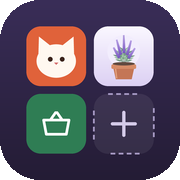
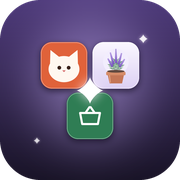
Hub 1.3: versões por app, tela Novidades, novo ícone e versões dos apps
- Novo: novidades.html, tela Novidades com um painel por app (arrasta para o lado) e histórico de versões.
- Novo: versoes.js, fonte única das versões e do histórico do menu e da tela Novidades.
- Menu: versão ao lado de cada app e versão do Meus apps no rodapé.
- Novo ícone juntando os três apps, com versão maskable para Android. Ícone antigo de quem já instalou: remover e instalar de novo.
- Patinhas 1.10: Comprar para o pet (lista do pet shop), tratamentos que terminam em 7 dias, atalho do Hoje para o gato. Nota: o commit d4d6337 chamou esse cartão de 1.9; a versão certa é 1.10 (1.9 é o alerta de peso).
- Maison 1.3: tocar em um item do Hoje abre a tela certa (estoque, vendas, compras).
- Listas 1.1: Comprados antes, desfazer, atalhos do Hoje, pet shop recebe itens da Patinhas; versão no rodapé de Ajustes.
- sw.js meus-apps-v4 com os arquivos novos no cache.

Claude-Session: https://claude.ai/code/session_01YSMWgq9VQy2W5L989r91LL

diff --git a/novidades.html b/novidades.html
@@ -1,0 +1,142 @@
+<!doctype html>
+<html lang="pt-BR">
+<head>
+<meta charset="utf-8">
+<meta name="viewport" content="width=device-width,initial-scale=1,viewport-fit=cover">
+<meta name="theme-color" content="#F4F1F8" media="(prefers-color-scheme: light)">
+<meta name="theme-color" content="#1B1726" media="(prefers-color-scheme: dark)">
+<link rel="apple-touch-icon" href="hub-icon-180.png">
+<title>Novidades · Meus apps</title>
+<style>
+:root{--bg:#F4F1F8;--surface:#FFFFFF;--ink:#241C35;--muted:#6C6283;--line:#E2DBEE;--accent:#7A5FBE;--accent-soft:#EEE8FA;--shadow:0 1px 2px rgba(36,28,53,.05),0 8px 22px rgba(36,28,53,.08);color-scheme:light}
+@media (prefers-color-scheme: dark){:root:not([data-theme="light"]){--bg:#1B1726;--surface:#252036;--ink:#F1ECFA;--muted:#A79CC2;--line:#3A3152;--accent:#B39BEA;--accent-soft:#33284C;--shadow:0 1px 2px rgba(0,0,0,.4);color-scheme:dark}}
+*{box-sizing:border-box}
+html,body{margin:0;padding:0}
+body{font-family:'Segoe UI',system-ui,-apple-system,Roboto,sans-serif;background:var(--bg);color:var(--ink);min-height:100vh;-webkit-tap-highlight-color:transparent;overflow-x:hidden}
+main{max-width:560px;margin:0 auto;padding:calc(env(safe-area-inset-top) + 18px) 16px calc(env(safe-area-inset-bottom) + 28px)}
+.voltar{display:inline-block;color:var(--accent);font-weight:700;text-decoration:none;font-size:15px;padding:6px 0}
+h1{font-size:26px;margin:6px 0 2px;letter-spacing:.2px}
+.sub{color:var(--muted);font-size:14px;line-height:1.45}
+.abas{display:flex;gap:8px;overflow-x:auto;scrollbar-width:none;margin:18px 0 6px;padding:2px 1px 4px}
+.abas::-webkit-scrollbar{display:none}
+.aba{flex:none;border:1px solid var(--line);background:var(--surface);color:var(--ink);border-radius:999px;padding:9px 14px;font:inherit;font-size:14px;font-weight:700;white-space:nowrap;cursor:pointer;box-shadow:var(--shadow)}
+.aba span{color:var(--accent);margin-left:4px}
+.aba[aria-current="true"]{background:var(--accent);border-color:var(--accent);color:#fff}
+.aba[aria-current="true"] span{color:#fff}
+.dica{color:var(--muted);font-size:12.5px;text-align:center;margin:4px 0 0}
+.trilho{display:flex;overflow-x:auto;scroll-snap-type:x mandatory;scrollbar-width:none;-webkit-overflow-scrolling:touch;margin-top:10px}
+.trilho::-webkit-scrollbar{display:none}
+.painel{flex:0 0 100%;min-width:0;scroll-snap-align:start;padding:0 1px}
+.cartao{background:var(--surface);border:1px solid var(--line);border-radius:20px;padding:18px;box-shadow:var(--shadow)}
+.painel-topo{display:flex;align-items:center;gap:14px;padding-bottom:14px;border-bottom:1px solid var(--line)}
+.painel-topo img{width:56px;height:56px;border-radius:14px;flex:none}
+.painel-topo h2{font-size:19px;margin:0}
+.painel-topo .atual{color:var(--muted);font-size:14px;margin-top:3px}
+.painel-topo .atual strong{color:var(--accent)}
+.bloco-versao{margin-top:16px}
+.bloco-versao h3{font-size:15.5px;margin:0 0 6px;display:flex;align-items:center;gap:8px;flex-wrap:wrap}
+.tag{font-size:11.5px;font-weight:700;color:var(--accent);background:var(--accent-soft);border-radius:999px;padding:2px 9px}
+.bloco-versao ul{margin:0;padding-left:20px}
+.bloco-versao li{font-size:14.5px;line-height:1.5;margin:6px 0;overflow-wrap:anywhere}
+.bloco-versao + .bloco-versao{border-top:1px dashed var(--line);padding-top:12px;margin-top:14px}
+.pontos{display:flex;justify-content:center;gap:8px;margin-top:16px}
+.ponto{width:8px;height:8px;border-radius:999px;background:var(--line);transition:width .2s,background .2s}
+.ponto.on{width:22px;background:var(--accent)}
+.vazio{color:var(--muted);text-align:center;padding:32px 0}
+.rodape{color:var(--muted);font-size:12.5px;text-align:center;margin-top:24px;line-height:1.5}
+</style>
+</head>
+<body>
+<main>
+  <a class="voltar" href="index.html">‹ Meus apps</a>
+  <h1>Novidades</h1>
+  <div class="sub">Veja a versão de cada app e o que mudou em cada atualização.</div>
+
+  <nav class="abas" id="abas" aria-label="Escolha um app"></nav>
+  <p class="dica">Arraste para o lado para ver o próximo app.</p>
+
+  <div class="trilho" id="trilho" aria-live="polite"></div>
+  <div class="pontos" id="pontos" aria-hidden="true"></div>
+
+  <p class="rodape">Versões e novidades ficam guardadas junto com o próprio app.</p>
+</main>
+<script src="versoes.js"></script>
+<script>
+(function () {
+  'use strict';
+
+  const V = window.MEUS_APPS_VERSOES;
+  const ORDEM = ['hub', 'patinhas', 'maison', 'listas'];
+  const abas = document.getElementById('abas');
+  const trilho = document.getElementById('trilho');
+  const pontos = document.getElementById('pontos');
+
+  function esc(t) {
+    return String(t == null ? '' : t).replace(/[&<>"']/g, function (c) {
+      return { '&': '&amp;', '<': '&lt;', '>': '&gt;', '"': '&quot;', "'": '&#39;' }[c];
+    });
+  }
+
+  function painel(app) {
+    const blocos = (app.historico || []).map(function (v, i) {
+      return '<section class="bloco-versao"><h3>Versão ' + esc(v.versao) +
+        (i === 0 ? ' <span class="tag">atual</span>' : '') + '</h3><ul>' +
+        (v.itens || []).map(function (t) { return '<li>' + esc(t) + '</li>'; }).join('') +
+        '</ul></section>';
+    }).join('');
+    return '<article class="painel" aria-label="Novidades de ' + esc(app.nome) + '"><div class="cartao">' +
+      '<header class="painel-topo"><img src="' + esc(app.icone) + '" alt=""><div><h2>' + esc(app.nome) +
+      '</h2><div class="atual">Versão atual: <strong>' + esc(app.atual) + '</strong></div></div></header>' +
+      blocos + '</div></article>';
+  }
+
+  if (!V) {
+    trilho.innerHTML = '<p class="vazio">Não foi possível carregar as novidades agora.</p>';
+    return;
+  }
+
+  abas.innerHTML = ORDEM.map(function (k, i) {
+    return '<button type="button" class="aba" data-i="' + i + '" aria-current="' + (i === 0 ? 'true' : 'false') + '">' +
+      esc(V[k].nome) + '<span>v' + esc(V[k].atual) + '</span></button>';
+  }).join('');
+  trilho.innerHTML = ORDEM.map(function (k) { return painel(V[k]); }).join('');
+  pontos.innerHTML = ORDEM.map(function () { return '<span class="ponto"></span>'; }).join('');
+
+  function indiceAtual() {
+    const largura = trilho.clientWidth || 1;
+    return Math.min(ORDEM.length - 1, Math.max(0, Math.round(trilho.scrollLeft / largura)));
+  }
+
+  function marcar() {
+    const i = indiceAtual();
+    abas.querySelectorAll('.aba').forEach(function (b, j) { b.setAttribute('aria-current', j === i ? 'true' : 'false'); });
+    pontos.querySelectorAll('.ponto').forEach(function (p, j) { p.classList.toggle('on', j === i); });
+    const botao = abas.querySelector('.aba[aria-current="true"]');
+    if (botao && botao.scrollIntoView) botao.scrollIntoView({ block: 'nearest', inline: 'nearest' });
+  }
+
+  let quadro = 0;
+  trilho.addEventListener('scroll', function () {
+    cancelAnimationFrame(quadro);
+    quadro = requestAnimationFrame(marcar);
+  }, { passive: true });
+
+  abas.addEventListener('click', function (e) {
+    const b = e.target.closest('.aba');
+    if (!b) return;
+    trilho.scrollTo({ left: Number(b.dataset.i) * trilho.clientWidth, behavior: 'smooth' });
+  });
+
+  window.addEventListener('resize', function () {
+    trilho.scrollTo({ left: indiceAtual() * trilho.clientWidth });
+  });
+
+  marcar();
+
+  if ('serviceWorker' in navigator) {
+    navigator.serviceWorker.register('sw.js').catch(function () {});
+  }
+})();
+</script>
+</body>
+</html>

diff --git a/index.html b/index.html
@@ -40,6 +40,12 @@ h1{font-size:26px;margin:0;letter-spacing:.2px}
 .instalar[hidden]{display:none}
 .ver-hoje{display:block;text-align:center;margin-top:22px;padding:13px;border-radius:14px;border:1px solid var(--line);background:var(--surface);color:var(--accent);font-weight:700;text-decoration:none}
 .rodape{color:var(--muted);font-size:12.5px;text-align:center;margin-top:24px;line-height:1.5}
+.app .t{display:flex;align-items:center;gap:8px;flex-wrap:wrap}
+.versao{font-size:12px;font-weight:700;color:var(--accent);background:var(--accent-soft);border-radius:999px;padding:2px 9px;white-space:nowrap}
+.versao:empty{display:none}
+.versao-hub{color:var(--muted);font-size:13.5px;text-align:center;margin:20px 0 0;line-height:1.5}
+.versao-hub strong{color:var(--ink)}
+.versao-hub a{color:var(--accent);font-weight:700;text-decoration:none}
 </style>
 </head>
 <body>
@@ -58,7 +64,7 @@ h1{font-size:26px;margin:0;letter-spacing:.2px}
     <a class="app" href="patinhas.html">
       <img src="icon-192.png" alt="">
       <div>
-        <div class="t">Patinhas em Dia</div>
+        <div class="t">Patinhas em Dia <span class="versao" data-versao="patinhas"></span></div>
         <div class="d">Saúde dos gatos: lembretes, peso, consultas e resumo para o veterinário.</div>
         <div class="r" data-resumo="patinhas"></div>
       </div>
@@ -68,7 +74,7 @@ h1{font-size:26px;margin:0;letter-spacing:.2px}
     <a class="app" href="maison.html">
       <img src="maison-icon-192.png" alt="">
       <div>
-        <div class="t">Maison de Lavande</div>
+        <div class="t">Maison de Lavande <span class="versao" data-versao="maison"></span></div>
         <div class="d">Vendas, compras, estoque e lucro da loja.</div>
         <div class="r" data-resumo="maison"></div>
       </div>
@@ -78,7 +84,7 @@ h1{font-size:26px;margin:0;letter-spacing:.2px}
     <a class="app" href="listas.html">
       <img src="listas-icon-192.png" alt="">
       <div>
-        <div class="t">Listas</div>
+        <div class="t">Listas <span class="versao" data-versao="listas"></span></div>
         <div class="d">Listas de mercado, farmácia, pet shop e casa, com pastas por loja.</div>
         <div class="r" data-resumo="listas"></div>
       </div>
@@ -98,8 +104,11 @@ h1{font-size:26px;margin:0;letter-spacing:.2px}
 
   <a class="ver-hoje" href="hoje.html">Ver tudo de hoje ›</a>
 
+  <p class="versao-hub">Meus apps · <strong>versão <span id="hub-versao"></span></strong> · <a href="novidades.html">Novidades e histórico ›</a></p>
+
   <p class="rodape">Cada aplicativo guarda seus dados neste aparelho.<br>Para trocar de app, use o botão “‹ Menu” no topo de cada um.</p>
 </main>
+<script src="versoes.js"></script>
 <script>
 (function () {
   'use strict';
@@ -183,6 +192,19 @@ h1{font-size:26px;margin:0;letter-spacing:.2px}
     });
     try { mostrarPendencias(); } catch (e) { /* a faixa de pendências é opcional */ }
   }
+
+  // Versões: o número de cada app aparece ao lado do nome, e a do Meus apps no rodapé (vem de versoes.js).
+  function mostrarVersoes() {
+    const V = window.MEUS_APPS_VERSOES;
+    if (!V) return;
+    document.querySelectorAll('[data-versao]').forEach(function (el) {
+      const app = V[el.getAttribute('data-versao')];
+      if (app && app.atual) el.textContent = 'v' + app.atual;
+    });
+    const h = document.getElementById('hub-versao');
+    if (h && V.hub) h.textContent = V.hub.atual;
+  }
+  mostrarVersoes();
 
   atualizarResumos();
   document.addEventListener('visibilitychange', function () { if (document.visibilityState === 'visible') atualizarResumos(); });

diff --git a/versoes.js b/versoes.js
@@ -1,0 +1,82 @@
+// Meus apps — versões e histórico de atualizações.
+// Ao publicar uma versão nova de um app: troque "atual" e coloque o novo item no topo do histórico.
+// O menu e a tela Novidades leem este arquivo. Cada app mostra o próprio número (rodapé ou Ajustes),
+// e os testes conferem que os números batem.
+window.MEUS_APPS_VERSOES = {
+  hub: {
+    nome: 'Meus apps',
+    icone: 'hub-icon-192.png',
+    atual: '1.3',
+    historico: [
+      { versao: '1.3', itens: [
+        'Tela Novidades: histórico de cada app, com a versão atual e o que mudou. Arraste para o lado para trocar de app.',
+        'A versão de cada app aparece ao lado do nome, e a versão do Meus apps aparece no rodapé.',
+        'Ícone novo, juntando os três apps.',
+      ] },
+      { versao: '1.2', itens: [
+        'Tela Hoje: reúne as pendências dos três apps. Toque em um item e ele abre no lugar certo.',
+        'Faixa de pendências no menu, com o que está atrasado ou para comprar.',
+      ] },
+      { versao: '1.1', itens: [
+        'Listas entra no menu como o terceiro app.',
+        'Resumos ao vivo em cada app: gatos, vendas do mês e itens para comprar.',
+        'Logo novo, com os apps reunidos.',
+      ] },
+      { versao: '1.0', itens: [
+        'Menu com Patinhas em Dia e Maison de Lavande, com botão para instalar.',
+      ] },
+    ],
+  },
+  patinhas: {
+    nome: 'Patinhas em Dia',
+    icone: 'icon-192.png',
+    atual: '1.10',
+    historico: [
+      { versao: '1.10', itens: [
+        'Comprar para o pet: manda ração, areia, petiscos, antipulgas e shampoo para a lista do pet shop, no app Listas.',
+        'Tratamentos que terminam em até 7 dias aparecem no cartão, com botão para mandar para a lista.',
+        'Tocar em um lembrete do Hoje (menu) abre a ficha do gato direto.',
+      ] },
+      { versao: '1.9', itens: [
+        'Alerta de peso: avisa quando o peso mudou 5% ou mais em relação à pesagem anterior (até 90 dias).',
+      ] },
+      { versao: '1.8', itens: [
+        'Calendário com o botão Ver tudo.',
+        'Aviso de atualização: o app avisa quando existe versão nova.',
+      ] },
+    ],
+  },
+  maison: {
+    nome: 'Maison de Lavande',
+    icone: 'maison-icon-192.png',
+    atual: '1.3',
+    historico: [
+      { versao: '1.3', itens: [
+        'Tocar em um item do Hoje (menu) abre direto a tela certa: estoque, vendas ou compras.',
+      ] },
+      { versao: '1.2', itens: [
+        'Meta mensal de faturamento, com barra de progresso no Painel. Defina em Configurações.',
+        'Projeção do mês: no ritmo atual, quanto o mês deve fechar.',
+      ] },
+      { versao: '1.0', itens: [
+        'Produtos, vendas, compras, estoque, painel com gráficos e backup.',
+        'Lucro, margem e reposição calculados sozinhos.',
+      ] },
+    ],
+  },
+  listas: {
+    nome: 'Listas',
+    icone: 'listas-icon-192.png',
+    atual: '1.1',
+    historico: [
+      { versao: '1.1', itens: [
+        'Comprados antes: atalhos com os produtos que você mais compra, para adicionar com um toque.',
+        'Desfazer: ao remover um item ou esvaziar a lista, dá para voltar atrás por alguns segundos.',
+        'Tocar em um item do Hoje (menu) abre a lista certa. A lista do pet shop recebe itens da Patinhas.',
+      ] },
+      { versao: '1.0', itens: [
+        'Listas de mercado, farmácia, pet shop e casa, com pastas por loja, ordem por corredor e marcação de encarte.',
+      ] },
+    ],
+  },
+};

diff --git a/patinhas.html b/patinhas.html
@@ -263,7 +263,7 @@ button:active{transform:scale(.97)}
   <section id="ficha" hidden></section>
   <section id="historico" hidden></section>
 </main>
-<p class="rodape" id="versao">Patinhas em Dia · versão 1.9</p>
+<p class="rodape" id="versao">Patinhas em Dia · versão 1.10</p>
 
 <datalist id="bancoRemedios"></datalist>
 <input type="file" id="arquivo" accept="application/json,.json" hidden>
@@ -278,7 +278,7 @@ button:active{transform:scale(.97)}
 const $ = (s) => document.querySelector(s);
 const esc = (s) => String(s ?? '').replace(/[&<>"']/g, c => ({'&':'&amp;','<':'&lt;','>':'&gt;','"':'&quot;',"'":'&#39;'}[c]));
 const LS = 'patinhas-em-dia-v1';
-const VERSAO = '1.9';
+const VERSAO = '1.10';
 const TIPOS = {peso:'Peso', vacina:'Vacina', vermifugo:'Vermífugo', consulta:'Consulta', remedio:'Remédio', sintoma:'Observação'};
 const TIPOS_REGISTRO = Object.entries(TIPOS).filter(([k]) => k !== 'remedio');
 const TIPO_COR = {peso:'#3B6FB6', vacina:'#23704F', vermifugo:'#B7800F', consulta:'#8E5BB5', sintoma:'#7C8A83', remedio:'#C2497A'};

diff --git a/sw.js b/sw.js
@@ -1,12 +1,14 @@
 // Meus apps — service worker único do endereço.
 // Cobre o menu, o Patinhas, a Maison e a Listas. Ao mudar arquivos, aumente VERSAO.
-const VERSAO = 'meus-apps-v3';
+const VERSAO = 'meus-apps-v4';
 const ARQUIVOS = [
-  './', './index.html', './patinhas.html', './maison.html', './listas.html', './hoje.html', './manifest.webmanifest',
+  './', './index.html', './patinhas.html', './maison.html', './listas.html', './hoje.html', './novidades.html',
+  './versoes.js', './manifest.webmanifest',
   './icon-180.png', './icon-192.png', './icon-512.png',
   './maison-icon-180.png', './maison-icon-192.png', './maison-icon-512.png',
   './listas-icon-180.png', './listas-icon-192.png', './listas-icon-512.png',
   './hub-icon-180.png', './hub-icon-192.png', './hub-icon-512.png',
+  './hub-maskable-192.png', './hub-maskable-512.png',
 ];
 
 self.addEventListener('install', (e) => {

diff --git a/maison.html b/maison.html
@@ -1709,12 +1709,19 @@ main.view { padding: 16px 16px calc(96px + env(safe-area-inset-bottom)); max-wid
   const Calc = root.Calc, Store = root.Store, UI = root.UI;
   const { esc } = UI;
 
-  const VERSAO_ATUAL = '1.2';
+  const VERSAO_ATUAL = '1.3';
 
   const NOVIDADES = [
     {
-      versao: '1.2',
+      versao: '1.3',
       status: 'Versão atual',
+      itens: [
+        'Tocar em um item do Hoje (menu) abre direto a tela certa: estoque, vendas ou compras.',
+      ],
+    },
+    {
+      versao: '1.2',
+      status: 'Versão anterior',
       itens: [
         'Meta mensal de faturamento, com barra de progresso no Painel. Defina em Configurações.',
         'Projeção do mês: no ritmo atual, quanto o mês deve fechar.',

diff --git a/listas.html b/listas.html
@@ -493,6 +493,7 @@ button:disabled { opacity: .35; cursor: default; }
       <span class="gr" aria-hidden="true">A</span>
     </div>
   </div>
+  <p id="listas-versao" style="text-align:center;opacity:.7;font-size:13px;margin:18px 0 6px">Listas · versão 1.1</p>
 </section>
 
 <section class="folha" id="folha-nova-lista" role="dialog" aria-modal="true" aria-labelledby="t-nova" tabindex="-1" hidden>
